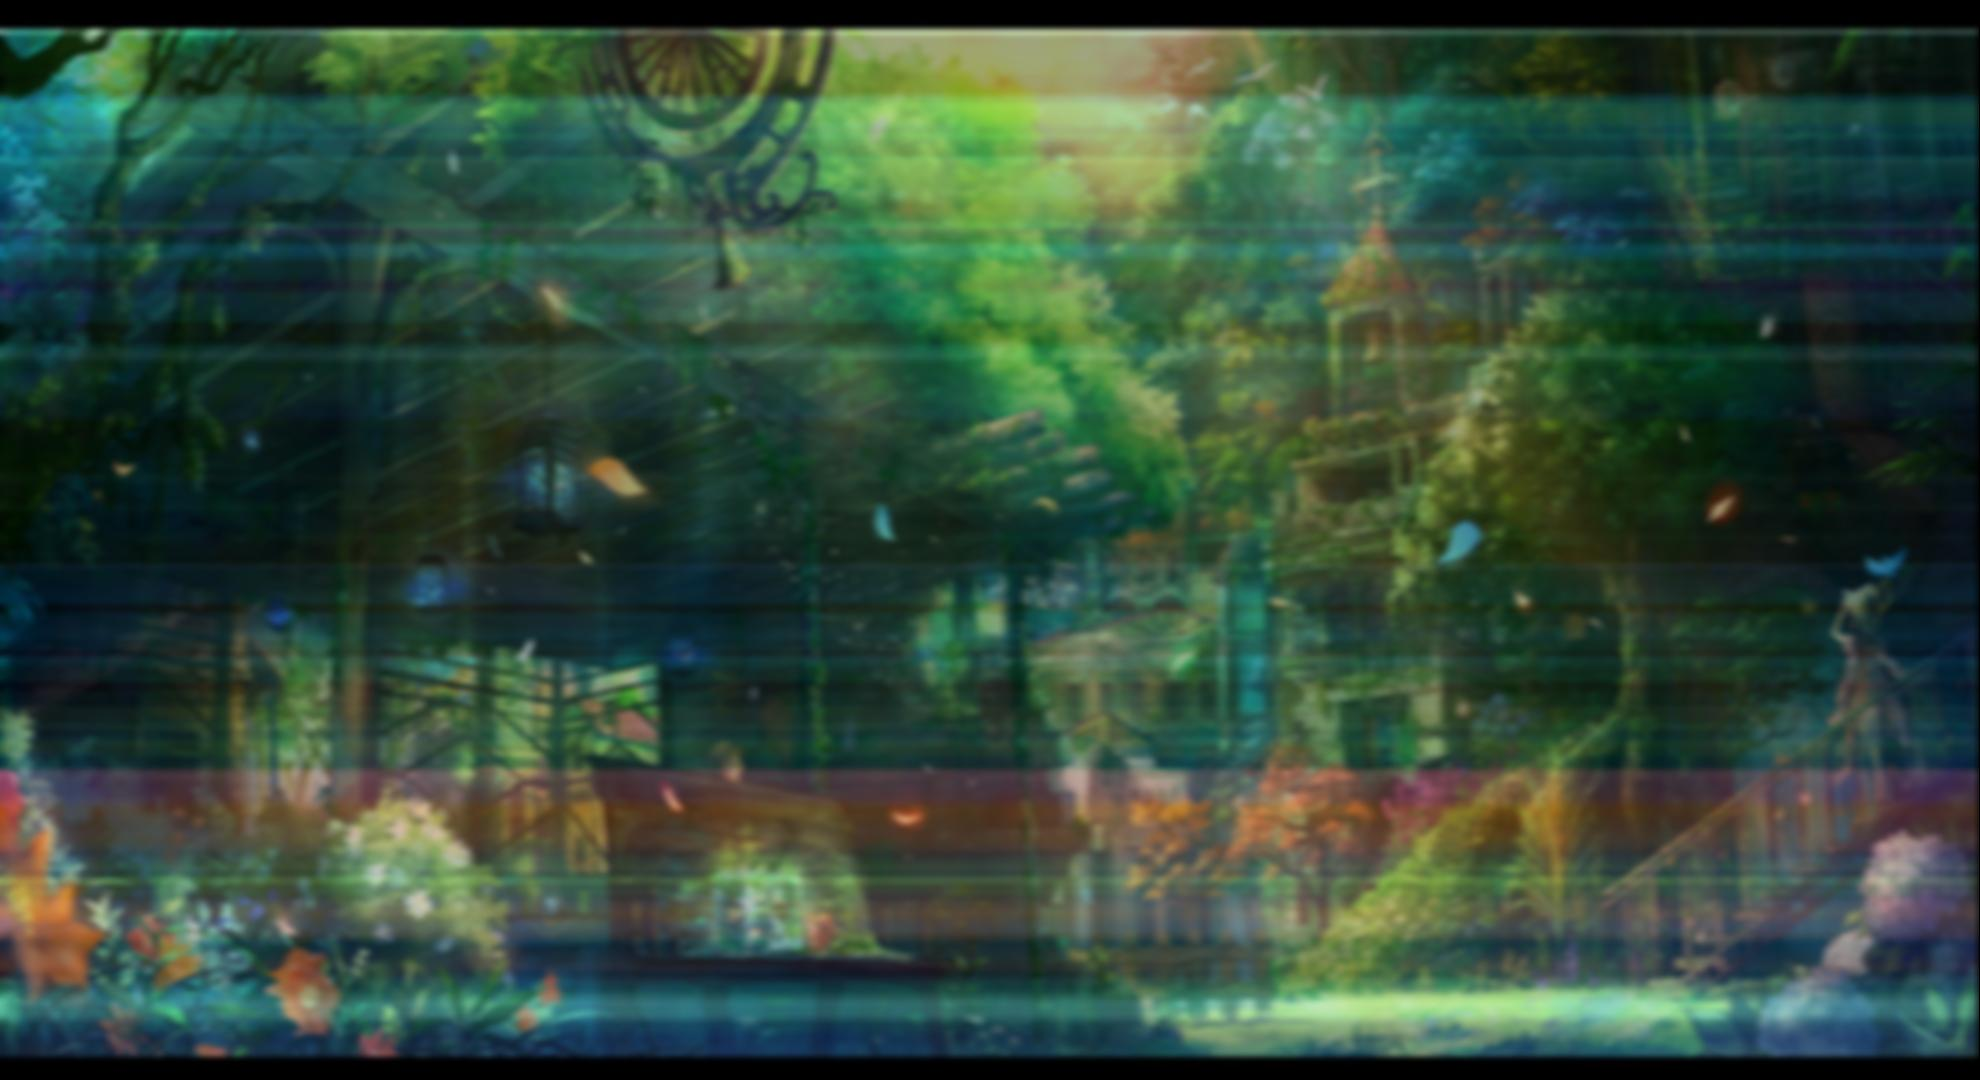
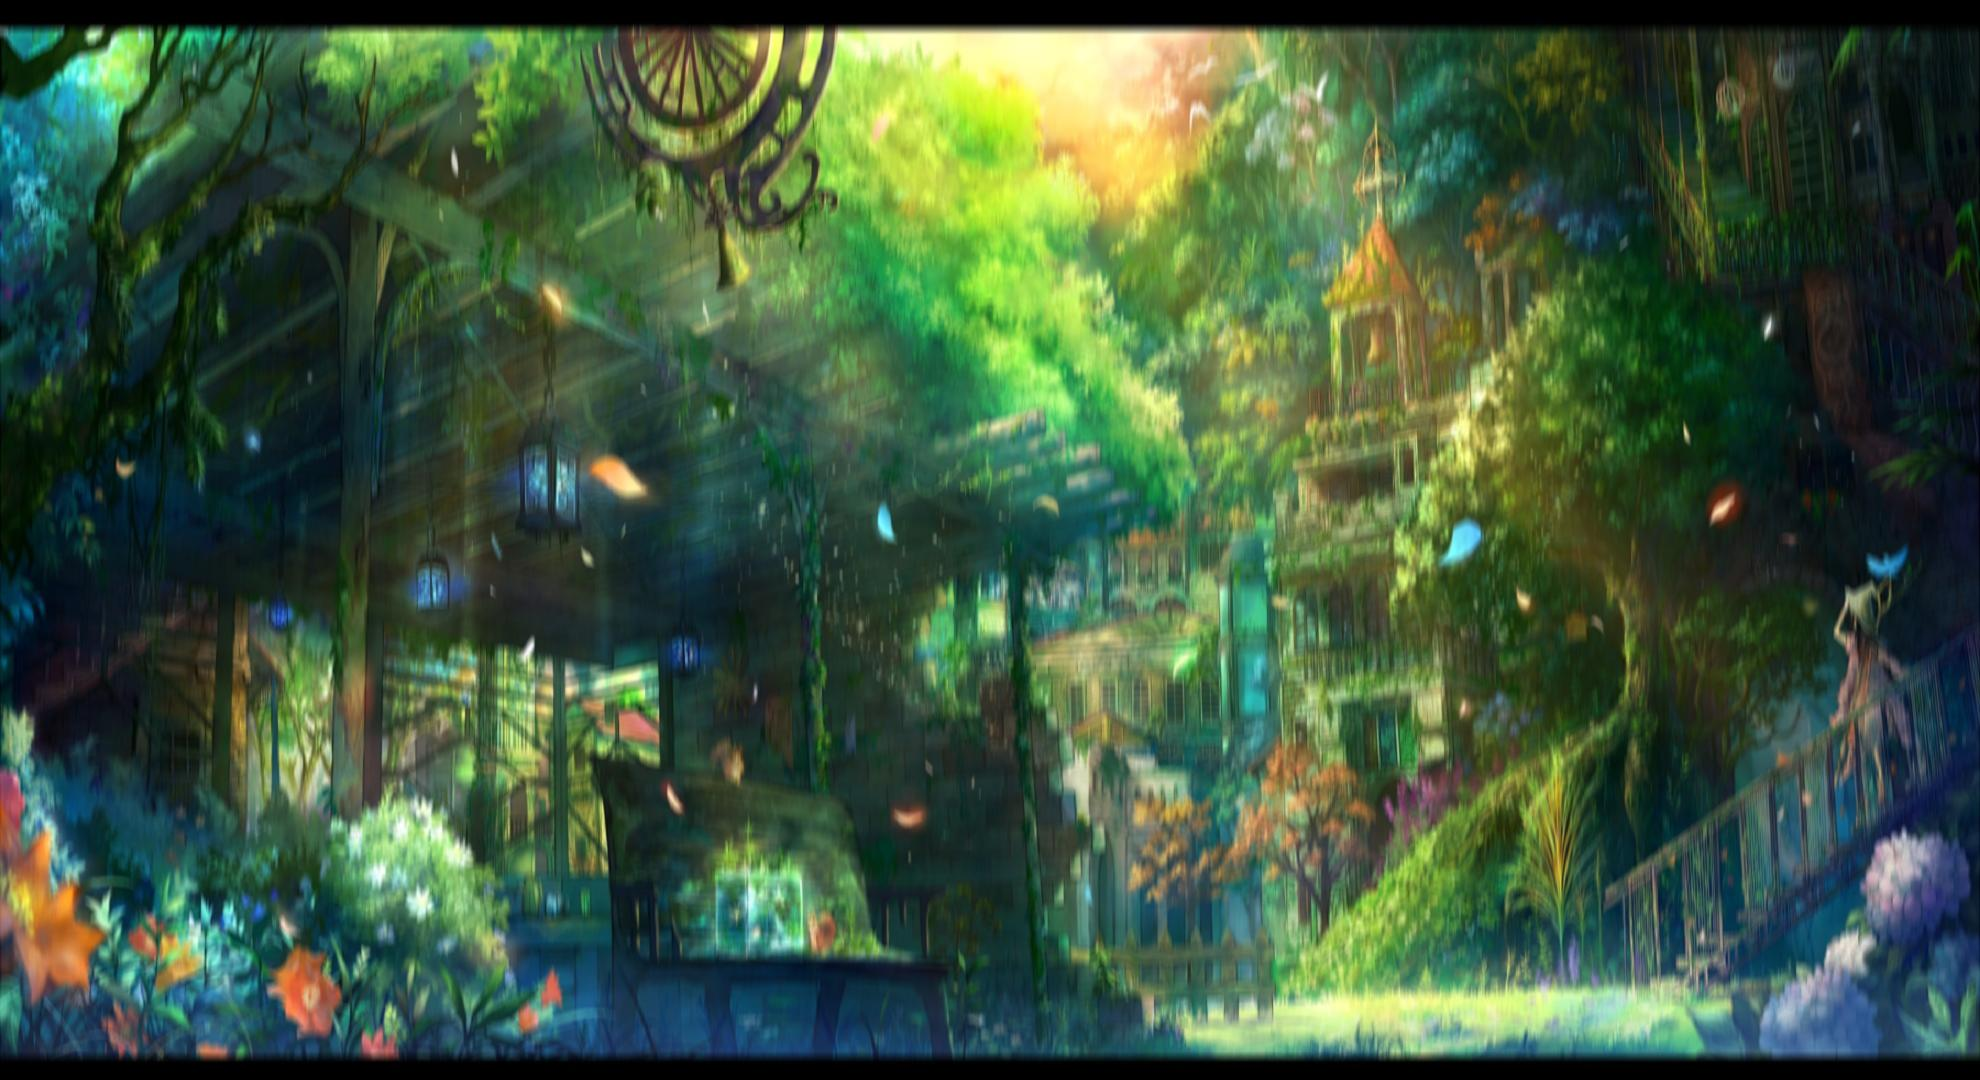
Fix blurring. Added simple menu.

diff --git a/python_implementation/blur.py b/python_implementation/blur.py
@@ -1,110 +1,128 @@
 from PIL import Image
 from math import sqrt, floor
+from image import ImageRead
+
 
 def boxes_for_gauss(sigma, n):
-    wi = sqrt((12 * sigma * sigma / n) + 1)
-
+    # ideal filter width
+    wi = sqrt((12 * sigma ** 2 / n) + 1)
     wl = floor(wi)
     if wl % 2 == 0:
         wl -= 1
     wu = wl + 2
-    mi = (12 * sigma * sigma - n * wl * wl - 4 * n * wl - 3 * n) / (-4 * wl - 4)
+
+    mi = (12 * sigma ** 2 - n * wl ** 2 - 4 * n * wl - 3 * n) / (-4 * wl - 4)
     m = round(mi)
 
-    return [wl, m, wu]
+    boxes = [((wl if i < m else wu) - 1) // 2 for i in range(n)]
+
+    return boxes
+
 
 def horizontal_blur(inData, outData, w, h, r):
-        iarr = 1.0 / (r + r + 1)
+    iarr = 1.0 / (r + r + 1)
 
-        for i in range(h):
-            ti = i * w
-            li = ti
-            ri = ti + r
-            fv = inData[ti]
-            lv = inData[ti + w - 1]
-            val = (r + 1) * fv
-            for j in range(r):
-                val += inData[ti + j]
+    for i in range(h):
+        ti = i * w
+        li = ti
+        ri = ti + r
+        fv = inData[ti]
+        lv = inData[ti + w - 1]
+        val = (r + 1) * fv
+        for j in range(r):
+            val += inData[ti + j]
 
-            for j in range(r):
-                val += inData[ri] - fv
-                outData[ti] = round(val * iarr)
-                ti += 1
-                ri += 1
+        for j in range(r):
+            val += inData[ri] - fv
+            outData[ti] = round(val * iarr)
+            ti += 1
+            ri += 1
 
-            for j in range(r + 1, w - r):
-                val += inData[ri] - inData[li]
-                outData[ti] = round(val * iarr)
-                ri += 1
-                li += 1
-                ti += 1
-            for j in range(w - r, w):
-                val += lv - inData[li]
-                outData[ti] = round(val * iarr)
-                li += 1
-                ti += 1
+        for j in range(r + 1, w - r):
+            val += inData[ri] - inData[li]
+            outData[ti] = round(val * iarr)
+            ri += 1
+            li += 1
+            ti += 1
+        for j in range(w - r, w):
+            val += lv - inData[li]
+            outData[ti] = round(val * iarr)
+            li += 1
+            ti += 1
+
 
 def total_blur(inData, outData, w, h, r):
-        iarr = 1.0 / (r + r + 1)
+    iarr = 1.0 / (r + r + 1)
 
-        for i in range(w):
-            ti, li, ri = i, i, i + r * w
-            fv, lv = inData[ti], inData[ti + w * (h - 1)]
-            val = (r + 1) * fv
+    for i in range(w):
+        ti, li, ri = i, i, i + r * w
+        fv, lv = inData[ti], inData[ti + w * (h - 1)]
+        val = (r + 1) * fv
 
-            for j in range(r):
-                val += inData[ti + j * w]
+        for j in range(r):
+            val += inData[ti + j * w]
 
-            for j in range(r + 1):
-                val += inData[ri] - fv
-                outData[ti] = round(val * iarr)
-                ri += w
-                ti += w
+        for j in range(r + 1):
+            val += inData[ri] - fv
+            outData[ti] = round(val * iarr)
+            ri += w
+            ti += w
 
-            for j in range(r + 1, h - r):
-                val += inData[ri] - inData[li]
-                outData[ti] = round(val * iarr)
-                li += w
-                ri += w
-                ti += w
+        for j in range(r + 1, h - r):
+            val += inData[ri] - inData[li]
+            outData[ti] = round(val * iarr)
+            li += w
+            ri += w
+            ti += w
 
-            for j in range(h - r, h):
-                val += lv - inData[li]
-                outData[ti] = round(val * iarr)
-                li += w
-                ti += w
+        for j in range(h - r, h):
+            val += lv - inData[li]
+            outData[ti] = round(val * iarr)
+            li += w
+            ti += w
 
 
-def boxBlur(inData, outData, w, h, sigma):
-    horizontal_blur(inData, outData, w, h, sigma)
+def box_blur(inData, outData, w, h, sigma):
+    inData, outData = outData, inData
+    horizontal_blur(outData, inData, w, h, sigma)
     total_blur(outData, inData, w, h, sigma)
+
 
 def fast_guassian_blur(inData, outData, w, h, sigma):
     boxes = boxes_for_gauss(sigma, 3)
-    boxBlur(inData, outData, w, h, boxes[0])
-    boxBlur(inData, outData, w, h, boxes[1])
-    boxBlur(inData, outData, w, h, boxes[2])
+    box_blur(inData, outData, w, h, boxes[0])
+    box_blur(outData, inData, w, h, boxes[1])
+    box_blur(inData, outData, w, h, boxes[2])
+
 
 def blur_image(im, sigma):
     oldr, oldg, oldb = im.img.split()
 
-    newr = Image.new('L', (im.width, im.heigth))  # 'L' oznacza tryb obrazu grayscale
+    newr = Image.new('L', (im.width, im.heigth))
     newg = Image.new('L', (im.width, im.heigth))
     newb = Image.new('L', (im.width, im.heigth))
+
+    listOR = list(oldr.getdata())
+    listOG = list(oldg.getdata())
+    listOB = list(oldb.getdata())
 
     listNR = list(newr.getdata())
     listNB = list(newb.getdata())
     listNG = list(newg.getdata())
-    print("Type of ", type(newr.getdata()[1]))
 
-    fast_guassian_blur(list(oldr.getdata()), listNR, im.width, im.heigth, sigma)
-    fast_guassian_blur(list(oldb.getdata()), listNB, im.width, im.heigth, sigma)
-    fast_guassian_blur(list(oldg.getdata()), listNG, im.width, im.heigth, sigma)
+
+    fast_guassian_blur(listOB, listNB, im.width, im.heigth, sigma)
+    fast_guassian_blur(listOG, listNG, im.width, im.heigth, sigma)
+    fast_guassian_blur(listOR, listNR, im.width, im.heigth, sigma)
 
     newr.putdata(listNR)
     newb.putdata(listNB)
     newg.putdata(listNG)
 
-    new_image = Image.merge('RGB', (newr, newg, newb))
+
+    new_image = ImageRead()
+    new_image.img = Image.merge('RGB', (newr, newg, newb))
+    new_image.filename = im.filename
+
 
     return new_image

diff --git a/python_implementation/main.py b/python_implementation/main.py
@@ -1,11 +1,54 @@
 from image import ImageRead
 from blur import blur_image
+import time
+
+
+class Timer:
+    def __init__(self):
+        self.start_ = 0
+
+    def start(self):
+        self.start_ = time.time()
+
+    def stop(self):
+        duration = time.time() - self.start_
+        print(f"Elapsed Time: {duration} s")
+
+
+def main():
+    choice = 0
+    tim = Timer()
+    while choice != 4:
+        print("\nMenu:")
+        print("1. Blur Image")
+        print("2. Merge Image")
+        print("3. Delete Areas of Image")
+        print("4. Exit")
+
+        choice = input("Enter your choice (1-4): ")
+
+        if 0 < int(choice) < 4:
+            inputName = input("Enter a file name with extension: ")
+            im = ImageRead(inputName)
+            im.loadImage()
+
+        if choice == '1':
+            sigma = input("Enter the radius of the blur: ")
+            tim.start()
+            blur_im = blur_image(im, float(sigma))
+            tim.stop()
+            blur_im.saveImage("blur")
+            continue
+        elif choice == '2':
+            continue
+        elif choice == '3':
+            continue
+        elif choice == '4':
+            print("Exiting program.")
+            break
+        else:
+            print("Invalid choice. Please enter a number between 1 and 4.")
+
 
 if __name__ == '__main__':
-    inputName = input("Enter a file name with extension: ")
-    im = ImageRead(inputName)
-    im.loadImage()
-    blur_im = blur_image(im, 2.0)
-    blur_im.save("./blured.jpg")
-
-
+    main()

diff --git a/python_implementation/image.py b/python_implementation/image.py
@@ -1,7 +1,7 @@
 from PIL import Image
 
 class ImageRead:
-    def __init__(self, filename):
+    def __init__(self, filename="Default"):
         self.filename = filename
         self.imagePath = "./" + filename
 
